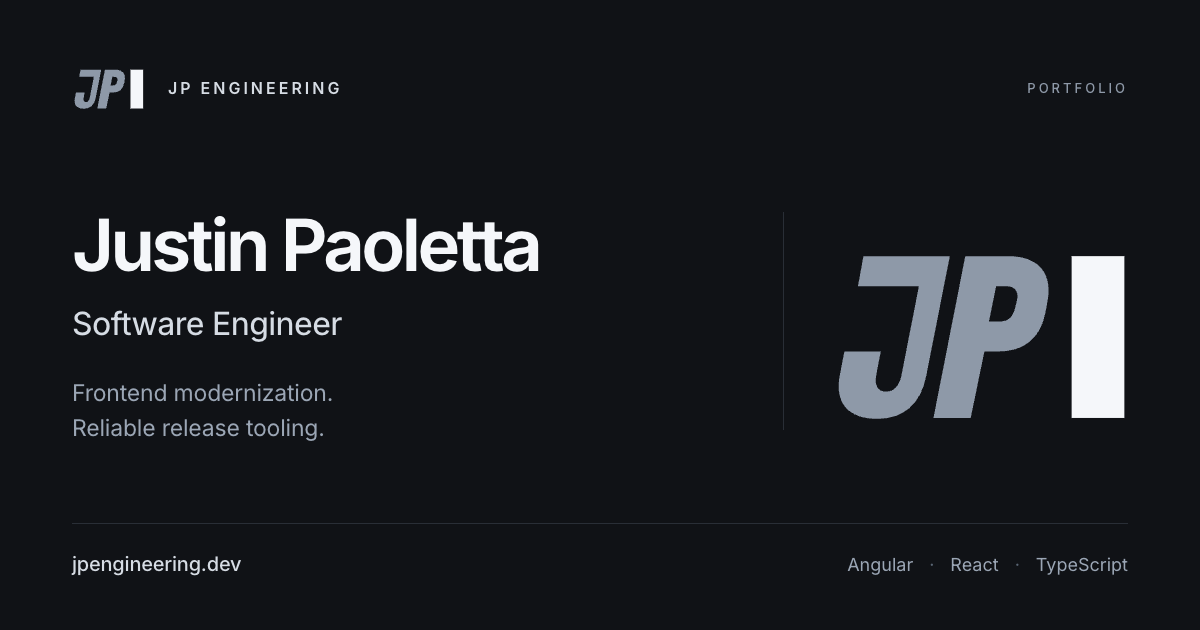
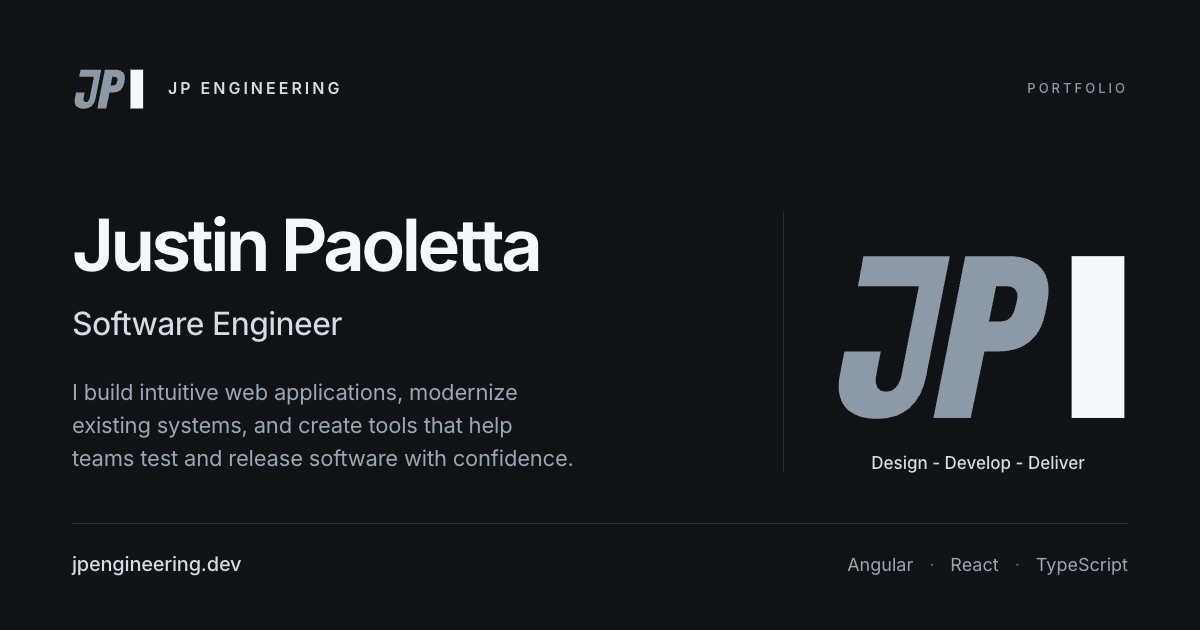
feat(branding): apply approved OG and refresh dog portraits

Changed region(s): [[0.0617, 0.6032, 0.4933, 0.754], [0.7092, 0.7238, 0.8942, 0.754]]

diff --git a/assets/branding/og-image.html b/assets/branding/og-image.html
@@ -76,7 +76,9 @@
       }
       .focus {
         margin: 32px 0 0;
-        font-size: 23px;
+        max-width: 650px;
+        text-wrap: balance;
+        font-size: 22px;
         line-height: 1.5;
         font-weight: 400;
         letter-spacing: -0.2px;
@@ -89,12 +91,25 @@
         width: 300px;
         height: 191px;
       }
+      .brand-tagline {
+        position: absolute;
+        left: 828px;
+        top: 451px;
+        width: 300px;
+        margin: 0;
+        color: #d6dce4;
+        font-size: 17px;
+        font-weight: 500;
+        line-height: 1.5;
+        text-align: center;
+        white-space: nowrap;
+      }
       .separator {
         position: absolute;
         top: 212px;
         left: 783px;
         width: 1px;
-        height: 218px;
+        height: 260px;
         background: #292e36;
       }
       footer {
@@ -143,10 +158,13 @@
         <h1>Justin Paoletta</h1>
         <p class="role">Software Engineer</p>
         <p class="focus">
-          Frontend modernization.<br />Reliable release tooling.
+          I build intuitive web applications, modernize existing systems, and
+          create tools that help teams test and release software with
+          confidence.
         </p>
       </main>
       <div class="separator"></div>
+      <p class="brand-tagline">Design - Develop - Deliver</p>
       <img class="hero-mark" src="jp-mark.svg" alt="" />
       <footer>
         <span class="domain">jpengineering.dev</span>

diff --git a/src/components/sections/PetDogs/index.tsx b/src/components/sections/PetDogs/index.tsx
@@ -34,15 +34,15 @@ const initialDogsData = [
 
 const dogMetadata: Record<string, Omit<Dog, 'name' | 'stats'>> = {
   Nala: {
-    image: '/images/pets/nala.webp',
+    image: '/images/pets/nala-cutout.webp',
     alt: 'Nala, a beautiful Australian Cattle Dog, Australian Shepherd, German Shepherd mix looking happy',
   },
   Rosie: {
-    image: '/images/pets/rosie.webp',
+    image: '/images/pets/rosie-cutout.webp',
     alt: 'Rosie, a sweet Bloodhound Beagle mix with a gentle expression',
   },
   Tito: {
-    image: '/images/pets/tito.webp',
+    image: '/images/pets/tito-cutout.webp',
     alt: 'Tito, a playful Chihuahua Pomeranian Dachshund mix with lots of energy',
   },
 };
@@ -136,11 +136,6 @@ function PetDogs(): React.ReactElement {
                       loading="lazy"
                       decoding="async"
                     />
-                    {dog.name === 'Nala' && (
-                      <span className="dog-badge-overlay" role="status">
-                        Foster
-                      </span>
-                    )}
                   </div>
 
                   <div className="dog-row-main">

diff --git a/index.html b/index.html
@@ -297,7 +297,7 @@
     />
     <meta
       property="og:image:alt"
-      content="Justin Paoletta — Software Engineer. Frontend modernization and release tooling. JP Engineering monogram on charcoal."
+      content="Justin Paoletta — Software Engineer. Web applications, modernization, and developer tools. Design - Develop - Deliver. JP Engineering monogram on charcoal."
     />
     <meta property="og:image:type" content="image/png" />
     <meta property="og:image:width" content="1200" />
@@ -321,7 +321,7 @@
     />
     <meta
       name="twitter:image:alt"
-      content="Justin Paoletta — Software Engineer. Frontend modernization and release tooling. JP Engineering monogram on charcoal."
+      content="Justin Paoletta — Software Engineer. Web applications, modernization, and developer tools. Design - Develop - Deliver. JP Engineering monogram on charcoal."
     />
 
     <script type="application/ld+json">

diff --git a/src/components/sections/PetDogs/index.test.tsx b/src/components/sections/PetDogs/index.test.tsx
@@ -23,7 +23,7 @@ describe('PetDogs section', () => {
     vi.clearAllMocks();
   });
 
-  it('toggles dogs panel and renders foster badge branch for Nala only', () => {
+  it('toggles the dogs panel and shows the rescue dogs without a foster badge', () => {
     render(<PetDogs />);
 
     const toggle = screen.getByRole('button', { name: 'Show dogs' });
@@ -39,7 +39,7 @@ describe('PetDogs section', () => {
     expect(
       screen.getByText('Sure you can!', { exact: false })
     ).toBeInTheDocument();
-    expect(screen.getByText('Foster')).toBeInTheDocument();
+    expect(screen.queryByText('Foster')).not.toBeInTheDocument();
 
     fireEvent.click(screen.getByRole('button', { name: 'Hide dogs' }));
     expect(

diff --git a/src/components/sections/PetDogs/PetDogs.css b/src/components/sections/PetDogs/PetDogs.css
@@ -138,24 +138,6 @@
   font-weight: 700;
 }
 
-.dog-badge-overlay {
-  position: absolute;
-  left: 0;
-  right: 0;
-  bottom: 12px;
-  height: 25%;
-  display: inline-flex;
-  align-items: center;
-  justify-content: center;
-  font-family: var(--font-mono);
-  font-size: 0.65rem;
-  font-weight: 600;
-  text-transform: uppercase;
-  letter-spacing: 0.08em;
-  color: #ffffff;
-  background: #000000;
-}
-
 .dog-counter-actions {
   display: inline-flex;
   align-items: center;
